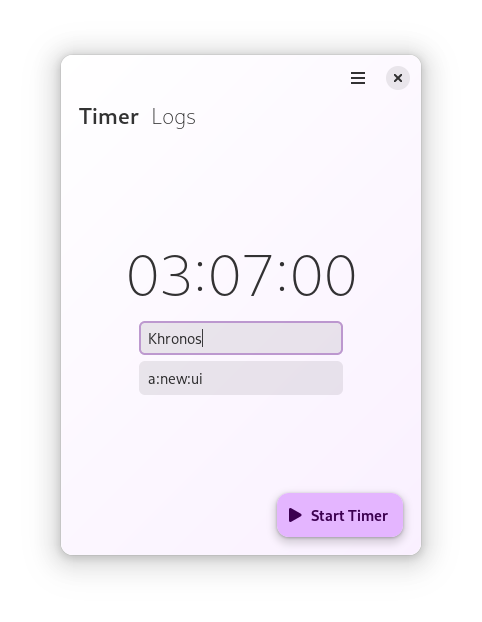
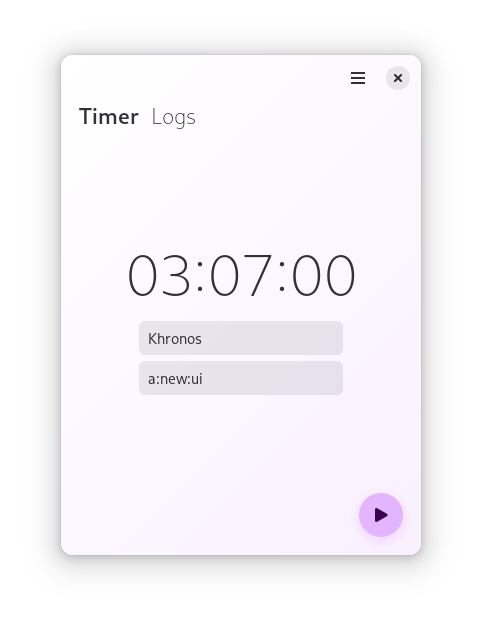
* - Solo 2.0 UI

Changed region(s): [[0.5602, 0.7942, 0.8402, 0.8859], [0.2801, 0.5193, 0.7158, 0.5804], [0.3112, 0.4887, 0.6846, 0.5193]]

diff --git a/data/style.css b/data/style.css
@@ -43,48 +43,46 @@ headerbar {
 
 .list-action-button {
   padding: 10px;
-  border-radius: 12px;
-  box-shadow: 0 1px 3px 0 alpha(#151515, 0.3),
-              0 4px 8px 3px alpha(#151515, 0.15);
-}
-.list-action-button:hover {
-  box-shadow: 0 2px 3px 0 alpha(#151515, 0.3),
-              0 6px 10px 4px alpha(#151515, 0.15);
-}
-.list-action-button:active {
-  box-shadow: 0 1px 3px 0 alpha(#151515, 0.3),
-              0 4px 8px 3px alpha(#151515, 0.15);
+  border-radius: 999px;
 }
 .accent-button {
   background: @accent_bg_color;
   color: @accent_fg_color;
-  min-width:106px;
+  box-shadow: 0 4px 8px 3px alpha(@accent_bg_color, 0.30);
 }
 .accent-button:hover {
   background: shade(@accent_bg_color, 1.02);
+  box-shadow: 0 6px 10px 4px alpha(@accent_bg_color, 0.30);
 }
 .accent-button:active {
   background: shade(@accent_bg_color, 0.95);
+  box-shadow: 0 4px 8px 3px alpha(@accent_bg_color, 0.30);
 }
 .accent-secondary-button {
   background: @accent_secondary_bg_color;
   color: @accent_secondary_fg_color;
+  box-shadow: 0 4px 8px 3px alpha(@accent_secondary_bg_color, 0.30);
 }
 .accent-secondary-button:hover {
   background: shade(@accent_secondary_bg_color, 1.02);
+  box-shadow: 0 6px 10px 4px alpha(@accent_secondary_bg_color, 0.30);
 }
 .accent-secondary-button:active {
   background: shade(@accent_secondary_bg_color, 0.95);
+  box-shadow: 0 4px 8px 3px alpha(@accent_secondary_bg_color, 0.30);
 }
 .list-action-button.destructive-action {
   background: #f9dedc;
   color: #410e0b;
+  box-shadow: 0 4px 8px 3px alpha(#f9dedc, 0.30);
 }
 .list-action-button.destructive-action:hover {
   background: shade(#f9dedc, 1.02);
+  box-shadow: 0 6px 10px 4px alpha(#f9dedc, 0.30);
 }
 .list-action-button.destructive-action:active {
   background: shade(#f9dedc, 0.95);
+  box-shadow: 0 4px 8px 3px alpha(#f9dedc, 0.30);
 }
 
 .content-sidebar {

diff --git a/data/style-dark.css b/data/style-dark.css
@@ -6,17 +6,6 @@
 @define-color window_bg_color #111;
 @define-color headerbar_bg_color #111;
 
-.action-button.destructive-action {
-  background: #8c1d18;
-  color: #f2b8b5;
-}
-.action-button.destructive-action:hover {
-  background: shade(#8c1d18, 1.02);
-}
-.action-button.destructive-action:active {
-  background: shade(#8c1d18, 0.9);
-}
-
 .list-action-button.destructive-action {
   background: #8c1d18;
   color: #f2b8b5;
